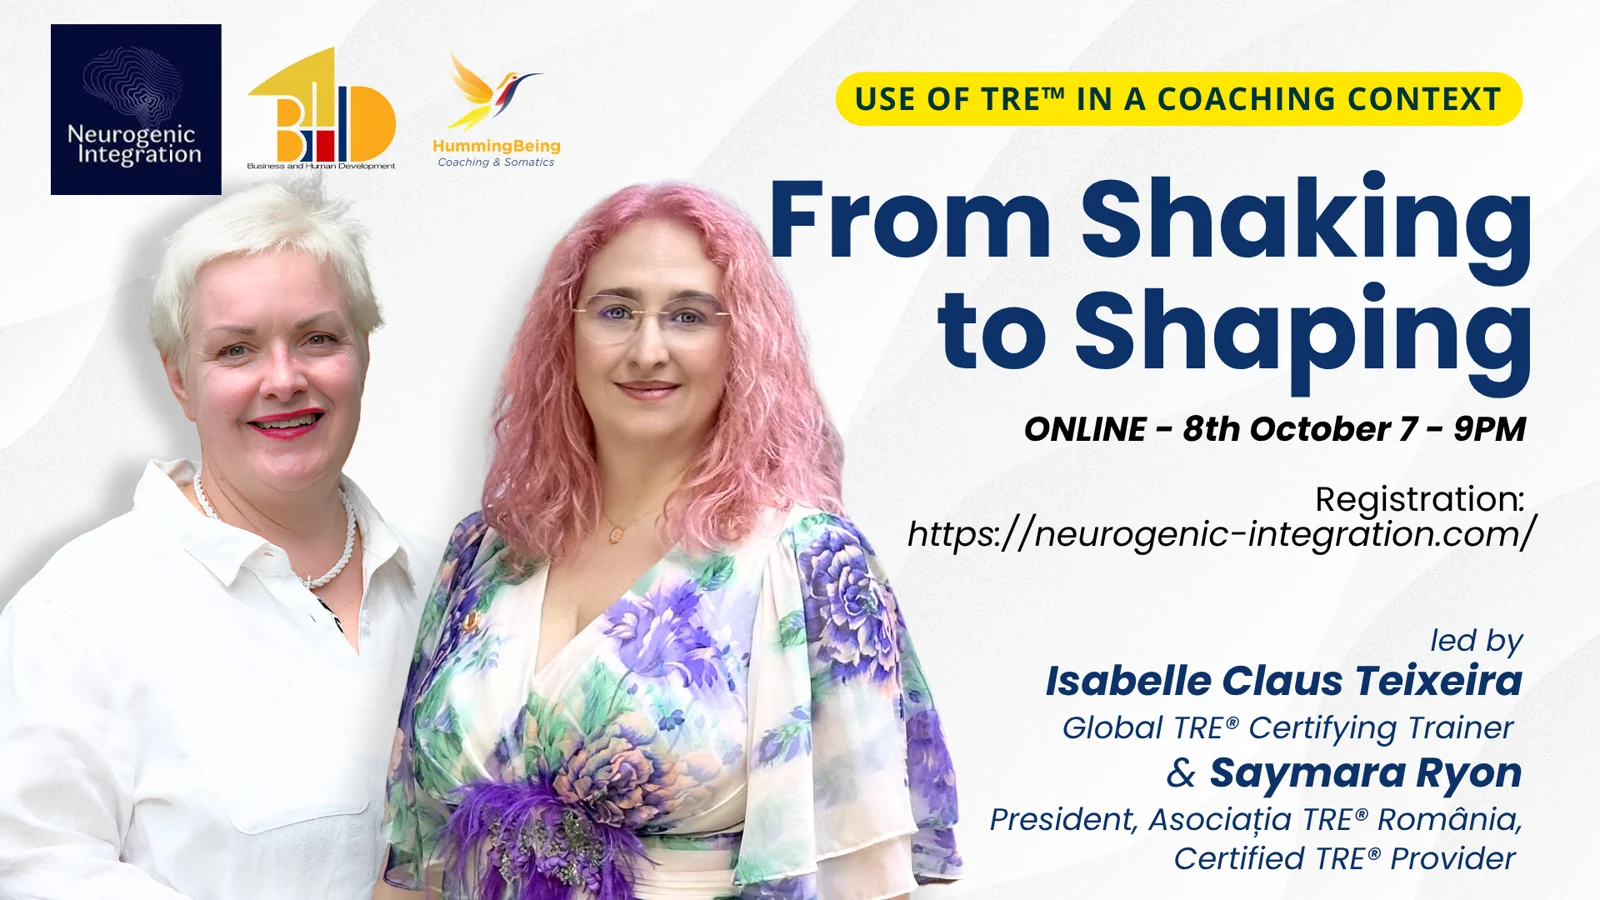
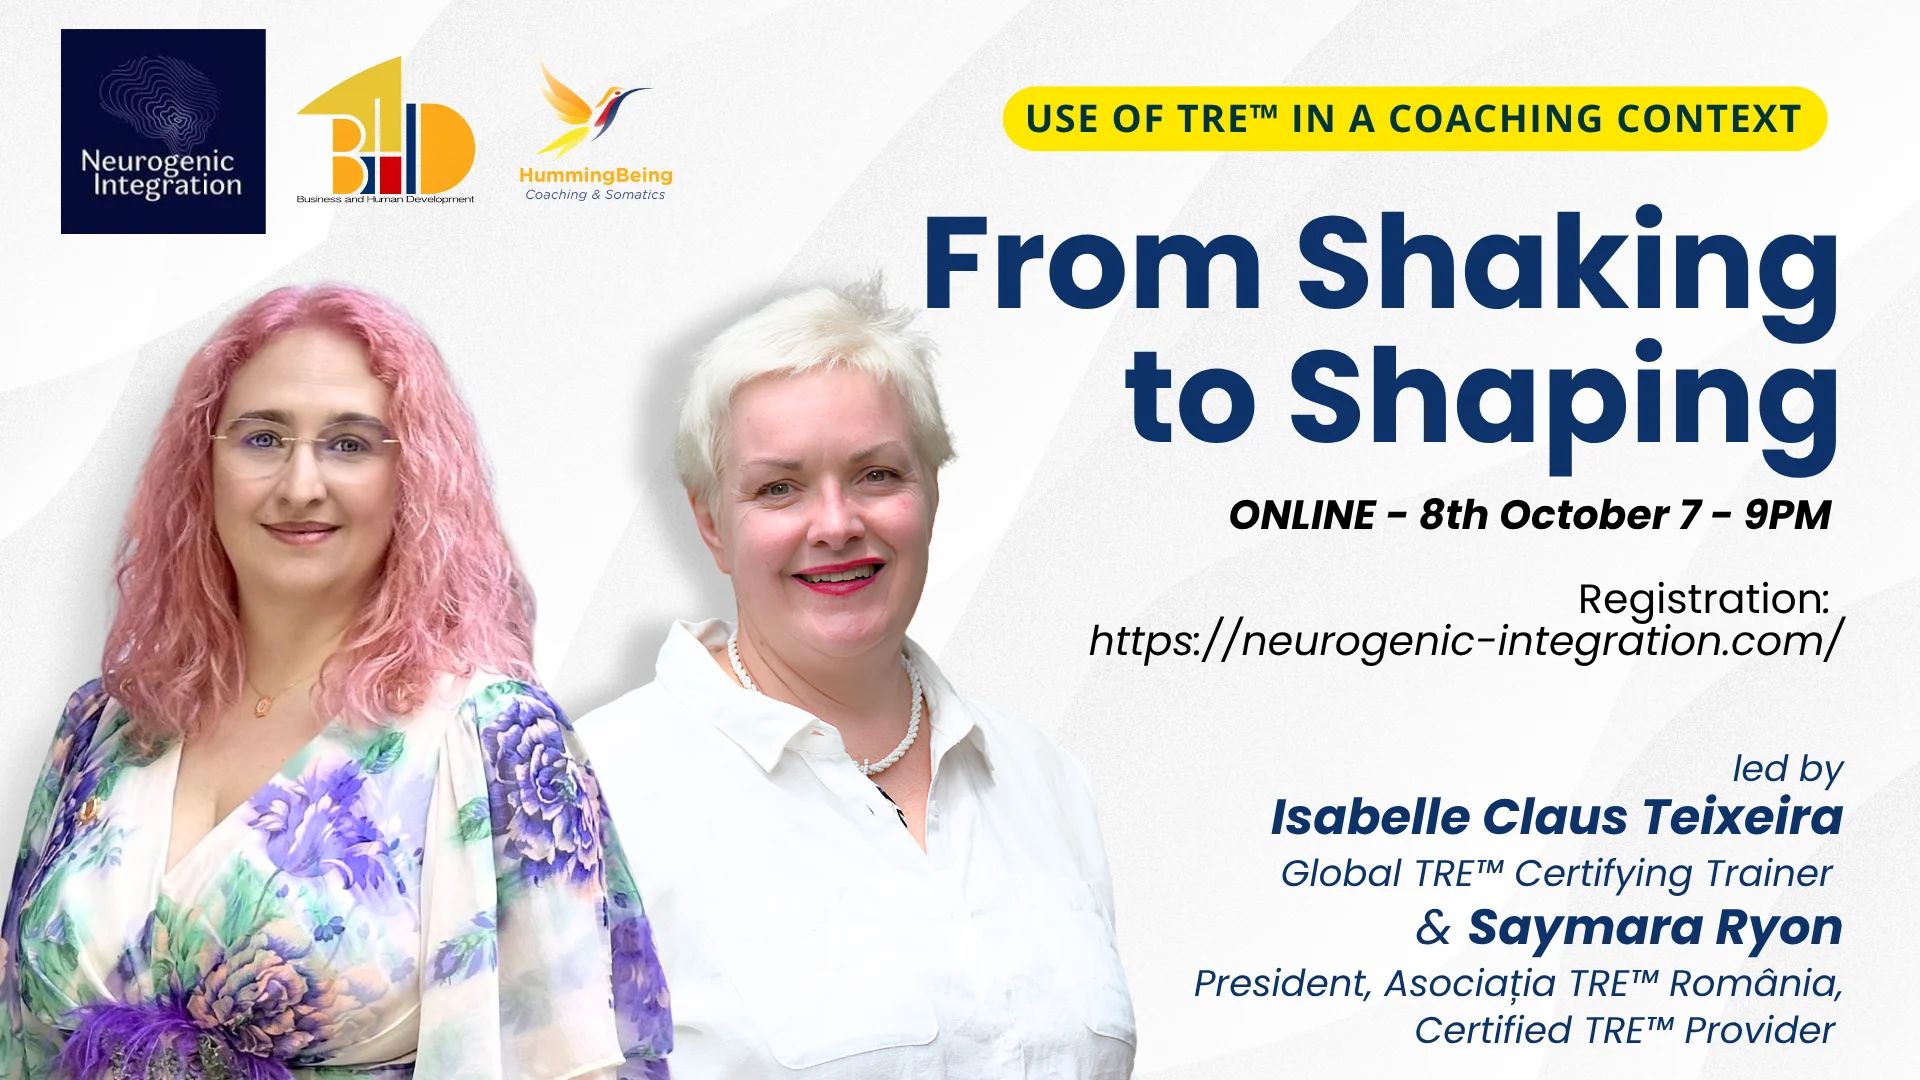
Update 'From Shaking to Shaping — Online' (8 Oct) event thumbnail
Replace event-shaking-online.webp with the official online-session poster
(Neurogenic Integration collab, 1920x1080 WebP); cache-bust refs to ?v=4.

diff --git a/event-shaking-online.html b/event-shaking-online.html
@@ -22,14 +22,14 @@ j=d.createElement(s),dl=l!="dataLayer"?"&l="+l:"";j.async=true;j.src=
   <link rel="icon" type="image/png" sizes="16x16" href="favicon-16.png?v=3" />
   <link rel="icon" href="favicon.ico?v=3" sizes="any" />
   <link rel="apple-touch-icon" href="apple-touch-icon.png?v=3" />
-  <link rel="preload" as="image" href="images/event-shaking-online.webp" fetchpriority="high">
+  <link rel="preload" as="image" href="images/event-shaking-online.webp?v=4" fetchpriority="high">
   <meta name="keywords" content="From Shaking to Shaping, TRE™ coaching online, Isabelle Claus Teixeira, Saymara Ryon, Neurogenic Integration, TRE™ workshop online, use of TRE™ in coaching" />
   <link rel="canonical" href="https://hummingbeing.com/event-shaking-online.html" />
   <meta name="robots" content="index, follow" />
   <meta property="og:type" content="website" />
   <meta property="og:title" content="From Shaking to Shaping — Online | HummingBeing" />
   <meta property="og:description" content="A live online TRE&#8482; coaching workshop on 8 October, 7&#8211;9pm. Led by Isabelle Claus Teixeira &amp; Saymara Ryon." />
-  <meta property="og:image" content="https://hummingbeing.com/images/event-shaking-online.webp" />
+  <meta property="og:image" content="https://hummingbeing.com/images/event-shaking-online.webp?v=4" />
   <meta property="og:url" content="https://hummingbeing.com/event-shaking-online.html" />
   <meta name="twitter:card" content="summary_large_image" />
   <script type="application/ld+json">
@@ -196,7 +196,7 @@ height="0" width="0" style="display:none;visibility:hidden"></iframe></noscript>
 
 <!-- POSTER BANNER -->
 <section class="ia-poster">
-  <img src="images/event-shaking-online.webp" alt="From Shaking to Shaping — Online TRE™ workshop, 8 October 7–9pm, led by Isabelle Claus Teixeira and Saymara Ryon" width="1920" height="1080" loading="lazy" decoding="async" />
+  <img src="images/event-shaking-online.webp?v=4" alt="From Shaking to Shaping — Online TRE™ workshop, 8 October 7–9pm, led by Isabelle Claus Teixeira and Saymara Ryon" width="1920" height="1080" loading="lazy" decoding="async" />
 </section>
 
 <!-- RESERVE -->

diff --git a/event-shaking-to-shaping-test.html b/event-shaking-to-shaping-test.html
@@ -404,7 +404,7 @@ height="0" width="0" style="display:none;visibility:hidden"></iframe></noscript>
             <div class="rel-body"><strong>TRE&#8482; Module 1 &mdash; Bucharest</strong><span>Rom&#226;nia &middot; Oct 15&#8211;17, 2026</span></div>
           </a>
           <a class="rel-card" href="event-shaking-online.html">
-            <div class="rel-img"><img src="images/event-shaking-online.webp" alt="From Shaking to Shaping — Online, 8 October" width="400" height="220" loading="lazy" /></div>
+            <div class="rel-img"><img src="images/event-shaking-online.webp?v=4" alt="From Shaking to Shaping — Online, 8 October" width="400" height="220" loading="lazy" /></div>
             <div class="rel-body"><strong>From Shaking to Shaping &mdash; Online</strong><span>Online &middot; 8 October 2026</span></div>
           </a>
           <a class="rel-card" href="event-certification-2027.html">

diff --git a/events.html b/events.html
@@ -742,7 +742,7 @@ height="0" width="0" style="display:none;visibility:hidden"></iframe></noscript>
 
     <!-- 3b. From Shaking to Shaping ONLINE (8 Oct 2026) -->
     <article class="evt-card" data-cat="romania coaches online">
-      <a href="event-shaking-online.html" class="evt-card-thumb"><img src="images/event-shaking-online.webp" alt="From Shaking to Shaping — Online, 8 October" loading="lazy" decoding="async" width="1920" height="1080" /></a>
+      <a href="event-shaking-online.html" class="evt-card-thumb"><img src="images/event-shaking-online.webp?v=4" alt="From Shaking to Shaping — Online, 8 October" loading="lazy" decoding="async" width="1920" height="1080" /></a>
       <div class="evt-card-content">
         <div class="evt-card-tags"><span class="evt-tag loc">Online</span><span class="evt-tag">TRE&#8482; Coaching</span></div>
         <h3>From Shaking to Shaping &mdash; Online</h3>
